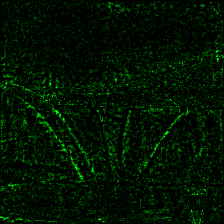
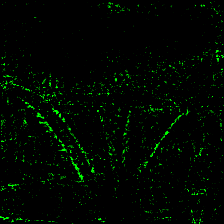
Update Readme

Changed region(s): [[0.0, 0.0, 1.0, 1.0], [0.4062, 0.0938, 0.4375, 0.1562], [0.3125, 0.0625, 0.3438, 0.0938]]

diff --git a/Integrated-Gradient-Chainer/run.py b/Integrated-Gradient-Chainer/run.py
@@ -73,15 +73,14 @@ if __name__ == '__main__':
     
     img_integrated_gradient_overlay = visualize(attributions, 
                                                 img, 
-                                                clip_above_percentile=99, 
-                                                clip_below_percentile=0,
-                                                outlines=True,
+                                                clip_above_percentile=95, 
+                                                clip_below_percentile=58,
                                                 overlay=True)
     
     img_integrated_gradient = visualize(attributions, 
                                         img, 
-                                        clip_above_percentile=99, 
-                                        clip_below_percentile=0, 
+                                        clip_above_percentile=95, 
+                                        clip_below_percentile=58, 
                                         overlay=False)
     
     img_integrated_gradient_overlay = np.uint8(img_integrated_gradient_overlay)

diff --git a/Integrated-Gradient-Chainer/README.md b/Integrated-Gradient-Chainer/README.md
@@ -1,13 +1,21 @@
 # Integrated Gradients
 ![MIT License](https://img.shields.io/badge/license-MIT-blue.svg)  
 This is the chainer implementation of ["Axiomatic Attribution for Deep Networks"](https://arxiv.org/pdf/1703.01365.pdf). The original tensorflow version could be found [here](https://github.com/ankurtaly/Integrated-Gradients).
+The source function to calculate the gradient is complete but the visualization part is not. I use the visualization library from the orginal one but it seems not good.
+
 ## Acknowledgement
 - [ankurtaly's tensorflow version](https://github.com/ankurtaly/Integrated-Gradients)
+
 ## Requirements
 - python-3.6
 - chainer-5.3.0
 - opencv-python
 - imageio
+
+## The project is a solution for an issue:
+- Want to use Integrated Gradients method in Chainer framework
+- Cannot find a single project which satisfy this
+
 ## Instructions
 
 ### The library support networks which are implemented in Chainer:
